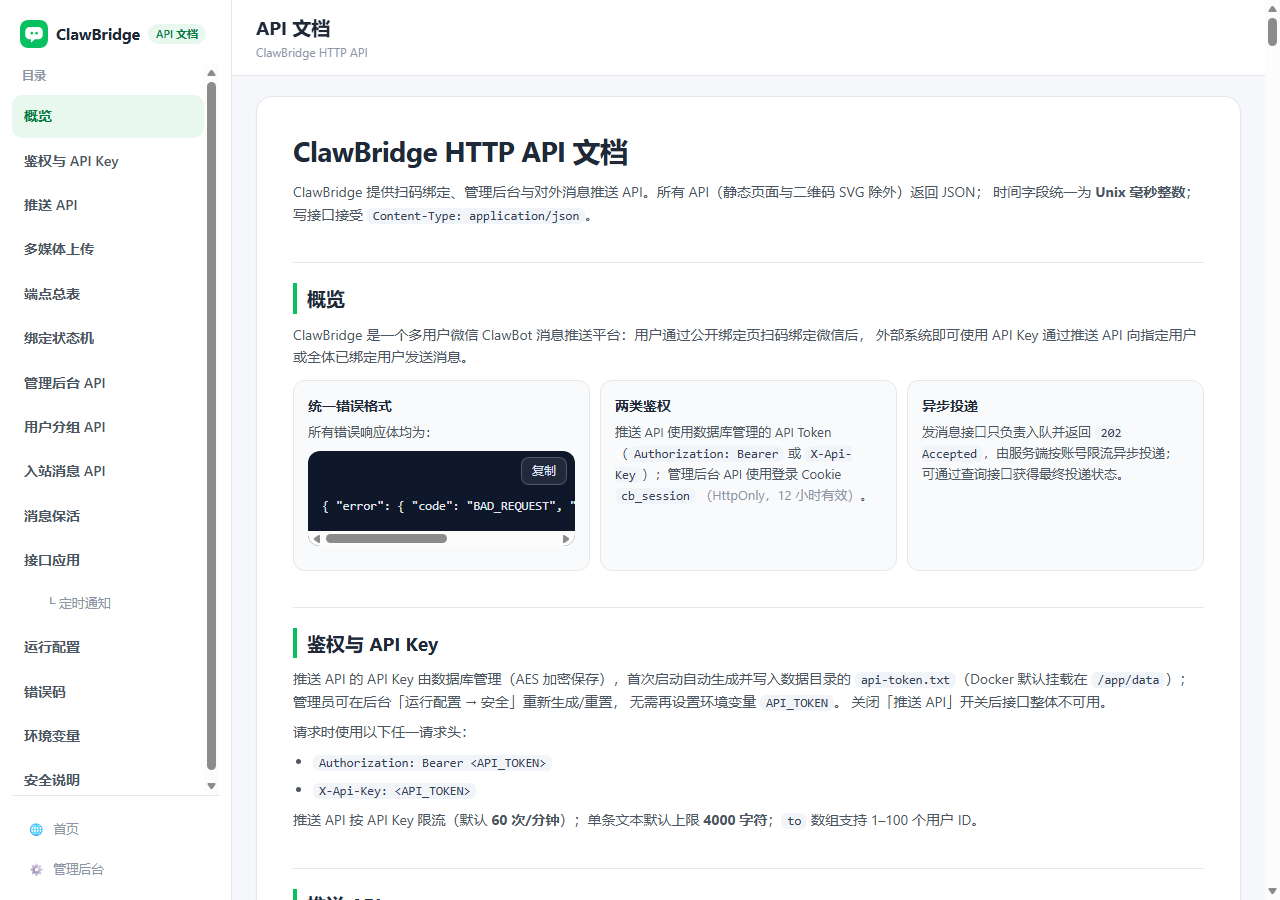
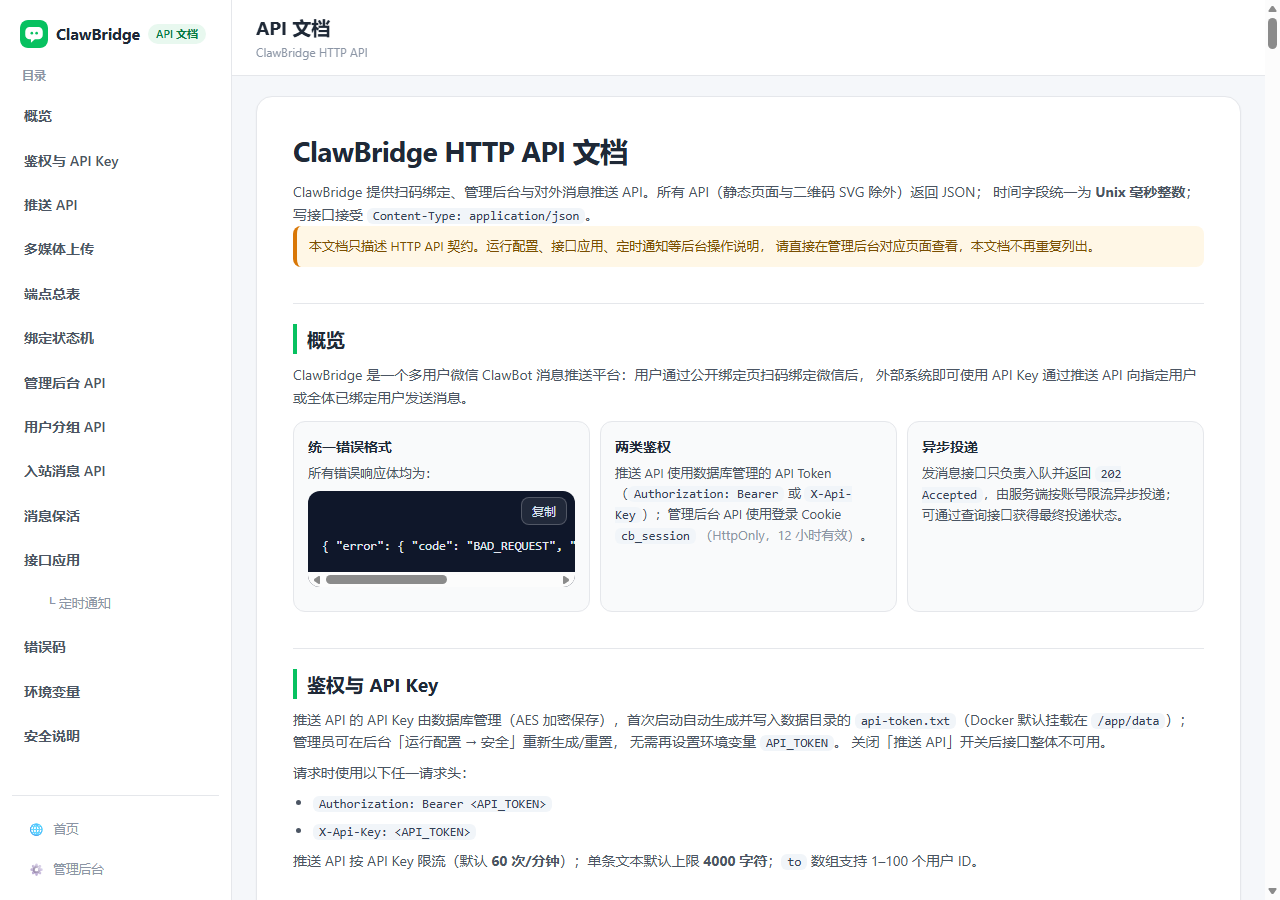
docs: 移除与后台重复的运行配置说明，文档只保留 API 契约
- API 文档页删除整段「运行配置（后台可改设置）」及其目录入口和字段表
- 删除后台已有操作说明的 doc-note（保活、接口应用、定时通知、媒体发送弹窗）
- 正文顶部增加范围说明：后台操作看管理后台，文档不再重复
- docs/API.md 的运行配置章节改为 API 契约摘要并指向 docs/SETTINGS.md
- 更新前端测试：断言文档页不再重复 settings 章节；docs/SETTINGS.md 契约仍覆盖
- 全量 348/348（unit 257 + e2e 91）

diff --git a/web/docs.html b/web/docs.html
@@ -38,7 +38,6 @@
           <a class="doc-nav-link" href="#keepalive">消息保活</a>
           <a class="doc-nav-link" href="#app-rules">接口应用</a>
           <a class="doc-nav-link doc-nav-sub" href="#scheduled-tasks">└ 定时通知</a>
-          <a class="doc-nav-link" href="#settings">运行配置</a>
           <a class="doc-nav-link" href="#error-codes">错误码</a>
           <a class="doc-nav-link" href="#env-vars">环境变量</a>
           <a class="doc-nav-link" href="#security">安全说明</a>
@@ -73,6 +72,11 @@
         <p class="doc-lead">
           ClawBridge 提供扫码绑定、管理后台与对外消息推送 API。所有 API（静态页面与二维码 SVG 除外）返回 JSON；
           时间字段统一为 <strong>Unix 毫秒整数</strong>；写接口接受 <code class="code-inline">Content-Type: application/json</code>。
+        </p>
+
+        <p class="doc-note">
+          本文档只描述 HTTP API 契约。运行配置、接口应用、定时通知等后台操作说明，
+          请直接在管理后台对应页面查看，本文档不再重复列出。
         </p>
 
         <!-- 概览 -->
@@ -327,11 +331,6 @@ curl -X POST http://localhost:10380/api/v1/messages \
             <li>一条带 caption 的媒体消息在服务端会拆成 <strong>最多 2 次</strong> <code class="code-inline">sendmessage</code>（文字 + 媒体），每次都会消耗该账号的发送限流令牌。</li>
             <li>媒体发送失败会按重试策略重新上传；附件文件缺失时该条消息直接标记 <code class="code-inline">failed</code>。</li>
           </ul>
-          <p class="doc-note">
-            管理后台「发消息」弹窗已内置：选择文件 → 客户端大小校验（读取
-            <code class="code-inline">/api/admin/config</code> 的 <code class="code-inline">media.maxBytes</code>）→
-            图片/视频预览 → 上传进度 → 发送；消息记录与用户详情中会展示图片缩略图、视频播放器与文件下载链接。
-          </p>
         </section>
 
         <!-- 端点总表 -->
@@ -1150,12 +1149,6 @@ done</code></pre></div>
               </tbody>
             </table>
           </div>
-          <p class="doc-note">
-            管理后台「用户管理」每行有「保活」开关，用户详情显示最近保活发送时间；「用户分组」每行有
-            「保活」行内开关（一键同步当前成员并持久化分组默认，之后加入该分组的成员自动开启；
-            分组编辑弹窗不再包含该开关）；「运行配置」展示保活全局开关、窗口、提前量、扫描间隔与文本。
-            真实环境上线默认不开启（<code class="code-inline">keepalive_enabled=0</code>），由管理员按需开启。
-          </p>
         </section>
 
         <!-- 接口应用 -->
@@ -1354,12 +1347,6 @@ curl -X POST http://localhost:10380/api/admin/app-rules/rule_xxxxxxxx/test \
 # 运行日志（支持 ruleId/status/userId/limit/offset）
 curl "http://localhost:10380/api/admin/app-rule-logs?ruleId=rule_xxxxxxxx&status=success&limit=20&offset=0" \
   -H "Cookie: cb_session=$ADMIN_COOKIE"</code></pre></div>
-          <p class="doc-note">
-            管理后台「接口应用」区块支持：规则列表（启用开关 / 范围 / 请求 / 最近运行 / 24h 成功·失败·跳过 /
-            编辑·测试·日志·删除）、分组式规则表单（基本信息 / 触发范围 / 触发条件 / 参数提取 / 请求 / 响应 /
-            限制）、测试运行弹窗（展示参数、实际请求、HTTP 状态、耗时、响应预览、将回复文本，且不会发给用户）
-            与规则日志弹窗（状态筛选 + 分页）。定时通知属于接口应用的时间计划模式，见下节。
-          </p>
 
           <!-- 定时通知（属于接口应用的时间计划模式） -->
           <section id="scheduled-tasks" class="doc-subsection">
@@ -1559,175 +1546,7 @@ curl "http://localhost:10380/api/admin/scheduled-task-logs?taskId=task_xxxxxxxx&
               </tbody>
             </table>
           </div>
-          <p class="doc-note">
-            管理后台「接口应用 → 定时通知」Tab 支持任务列表（启用开关/计划/目标/最近执行/下次执行）、
-            分区式任务表单（基本信息/计划/目标/请求/响应/超时）、测试运行（展示实际请求、HTTP/耗时、响应预览、
-            响应头诊断、将发送文本与收件人数，且<strong>不会发送</strong>）、立即执行（确认后真实发送并写日志）、
-            运行日志（任务/状态筛选 + 分页）。建议先用「测试运行」确认接口与文案，再启用或立即执行；
-            注意微信 7 条/5 分钟发送限流。
-          </p>
           </section>
-        </section>
-
-        <!-- 运行配置（后台可改） -->
-        <section id="settings" class="doc-section">
-          <h2 class="doc-heading">运行配置（后台可改设置）</h2>
-          <p>
-            能在后台修改的参数已从 <code class="code-inline">.env</code> 迁移到数据库
-            （schema v8 <code class="code-inline">app_settings</code> 表）：管理员在「运行配置」页修改后保存，
-            DB 持久化，尽量即时生效。第二批迁移后 <code class="code-inline">.env</code> 只保留启动必须项
-            （<code class="code-inline">APP_SECRET</code>、<code class="code-inline">DATA_DIR</code>、
-            <code class="code-inline">MEDIA_DIR</code>、<code class="code-inline">PORT</code>、
-            <code class="code-inline">HOST</code>、<code class="code-inline">NODE_ENV</code>）与机密回退值；
-            只有启动期固定或无法安全热更新的少量字段会提示「需重启」。
-          </p>
-          <p>
-            页面顶部提供 <strong>「🔄 重启容器」</strong> 按钮：确认后调用
-            <code class="code-inline">POST /api/admin/system/restart</code>（202），后台优雅退出后由 Docker
-            <code class="code-inline">restart: unless-stopped</code> 自动拉起（通常 5-15 秒不可用）；
-            前端轮询 <code class="code-inline">/health</code>，恢复后自动刷新页面。
-            仅生产容器环境可用；测试/非容器环境返回 <strong>409</strong>，需手动重启服务。
-          </p>
-
-          <h3 class="doc-subheading">1. 可后台修改的分组与字段</h3>
-          <div class="table-wrap">
-            <table class="doc-table">
-              <thead>
-                <tr>
-                  <th scope="col">分组</th>
-                  <th scope="col">字段</th>
-                </tr>
-              </thead>
-              <tbody>
-                <tr><td>推送 / 限流（push）</td><td><code class="code-inline">rateLimitMax</code>、<code class="code-inline">rateLimitWindowMs</code>、<code class="code-inline">maxAttempts</code>、<code class="code-inline">retryDelaysMs</code>、<code class="code-inline">apiRateLimitPerMinute</code>、<code class="code-inline">maxTextLength</code>、<code class="code-inline">tickMs</code></td></tr>
-                <tr><td>会话保活（keepalive）</td><td><code class="code-inline">enabled</code>、<code class="code-inline">windowMs</code>、<code class="code-inline">leadMs</code>、<code class="code-inline">tickMs</code>、<code class="code-inline">text</code>、<code class="code-inline">maxPerTick</code></td></tr>
-                <tr><td>接口应用（appRules）</td><td><code class="code-inline">enabled</code>、<code class="code-inline">timeoutMs</code>、<code class="code-inline">maxResponseBytes</code>、<code class="code-inline">workerConcurrency</code>、<code class="code-inline">allowedHosts</code>、<code class="code-inline">maxQueue</code></td></tr>
-                <tr><td>定时通知（scheduler）</td><td><code class="code-inline">enabled</code>、<code class="code-inline">tickMs</code>、<code class="code-inline">timezone</code>、<code class="code-inline">maxRecipients</code>、<code class="code-inline">timeoutMs</code></td></tr>
-                <tr><td>媒体（media）</td><td><code class="code-inline">maxBytes</code>、<code class="code-inline">inboundMaxBytes</code>、<code class="code-inline">downloadTimeoutMs</code>、<code class="code-inline">uploadTimeoutMs</code>、<code class="code-inline">allowedImageMime</code>、<code class="code-inline">allowedVideoMime</code></td></tr>
-                <tr><td>绑定（binding）</td><td><code class="code-inline">ttlMs</code>、<code class="code-inline">maxRefreshes</code>、<code class="code-inline">maxActive</code>、<code class="code-inline">ipLimitPerHour</code>、<code class="code-inline">verifyTimeoutMs</code>、<code class="code-inline">networkErrorLimit</code>、<code class="code-inline">pollGapMs</code></td></tr>
-                <tr><td>服务端（server）</td><td><code class="code-inline">publicBaseUrl</code>、<code class="code-inline">trustProxy</code>、<code class="code-inline">cookieSecure</code>、<code class="code-inline">logLevel</code>（enum：debug/info/warn/error/silent）</td></tr>
-                <tr><td>会话与安全（security）</td><td><code class="code-inline">sessionTtlMs</code>、<code class="code-inline">pushApiEnabled</code></td></tr>
-                <tr><td>微信接口（ilink）</td><td><code class="code-inline">loginBaseUrl</code>、<code class="code-inline">defaultBaseUrl</code>、<code class="code-inline">cdnBaseUrl</code>、<code class="code-inline">appId</code>、<code class="code-inline">channelVersion</code>、<code class="code-inline">botAgent</code>、<code class="code-inline">botType</code>、<code class="code-inline">routeTag</code>、<code class="code-inline">clientVersion</code>、<code class="code-inline">requestTimeoutMs</code>、<code class="code-inline">qrPollTimeoutMs</code>、<code class="code-inline">longPollTimeoutMs</code></td></tr>
-                <tr><td>入站监控（monitor）</td><td><code class="code-inline">longPollTimeoutMs</code>、<code class="code-inline">maxAccounts</code></td></tr>
-                <tr><td>管理密码 / API Token</td><td>「安全」卡片：管理密码修改/恢复、API Token 重新生成/恢复、推送 API 开关；密码哈希与 Token 明文永不在页面回显</td></tr>
-              </tbody>
-            </table>
-          </div>
-          <p>
-            <code class="code-inline">allowedHosts</code> 支持数组或逗号/换行分隔字符串，
-            空数组表示清空白名单（恢复默认拒绝私网/本机）；<code class="code-inline">retryDelaysMs</code> 为逗号分隔的毫秒值。
-            字段会显示默认值（.env）、min/max 范围、「已修改」标记与「需重启」标记。
-          </p>
-
-          <h3 class="doc-subheading">2. 管理端接口（Cookie + CSRF）</h3>
-          <div class="endpoint-line">
-            <span class="method method-get">GET</span>
-            <code class="endpoint-path">/api/admin/settings</code>
-          </div>
-          <div class="endpoint-line">
-            <span class="method method-patch">PATCH</span>
-            <code class="endpoint-path">/api/admin/settings</code>
-          </div>
-          <div class="endpoint-line">
-            <span class="method method-post">POST</span>
-            <code class="endpoint-path">/api/admin/settings/reset</code>
-          </div>
-          <p>
-            <code class="code-inline">GET</code> 返回
-            <code class="code-inline">{ groups:[{key,label,fields:[{key,label,type,value,default,min,max,restartRequired,description}]}], envOnly:[...] }</code>；
-            <code class="code-inline">PATCH</code> 只提交修改过的字段（按分组嵌套），返回
-            <code class="code-inline">{ ok:true, groups:[...], restartRequired:[...] }</code>；
-            <code class="code-inline">reset</code> 恢复某分组为环境变量默认值。
-            校验失败 400（未知分组/字段、类型/范围/时区错误）；未登录 401、缺 CSRF 403。
-          </p>
-          <div class="code-block"><pre><code># 修改接口应用内网白名单 + 保活文本
-curl -X PATCH http://localhost:10380/api/admin/settings \
-  -H "Cookie: cb_session=$ADMIN_COOKIE" \
-  -H "X-Requested-With: ClawBridge-Admin" \
-  -H "Content-Type: application/json" \
-  -d '{"appRules":{"allowedHosts":["192.168.88.10"]},
-       "keepalive":{"text":"【保活】回复任意内容继续接收通知"}}'
-
-# 恢复「接口应用」分组默认值
-curl -X POST http://localhost:10380/api/admin/settings/reset \
-  -H "Cookie: cb_session=$ADMIN_COOKIE" \
-  -H "X-Requested-With: ClawBridge-Admin" \
-  -H "Content-Type: application/json" \
-  -d '{"group":"appRules"}'</code></pre></div>
-
-          <h3 class="doc-subheading">3. 安全卡片（管理密码 / API Token）</h3>
-          <p>
-            <code class="code-inline">GET /api/admin/settings</code> 额外返回
-            <code class="code-inline">security</code>：
-            <code class="code-inline">{ adminPasswordSource:'db', apiTokenSource:'db',
-            apiTokenPreview, pushApiEnabled, sessionTtlMs }</code>。
-            管理密码与 API Token <strong>仅保存在数据库</strong>（密码 scrypt 哈希 / Token AES 加密），
-            首次启动自动生成并写入 <code class="code-inline">data/admin-password.txt</code>、
-            <code class="code-inline">data/api-token.txt</code>；<strong>不再读取/回退
-            .env 的 ADMIN_PASSWORD、API_TOKEN</strong>。
-            <strong>永不返回密码哈希或 Token 明文</strong>；`security.pushApiEnabled` 通过 PATCH settings 修改（即时生效）。
-          </p>
-          <div class="endpoint-line">
-            <span class="method method-post">POST</span>
-            <code class="endpoint-path">/api/admin/security/password</code>
-          </div>
-          <div class="endpoint-line">
-            <span class="method method-post">POST</span>
-            <code class="endpoint-path">/api/admin/security/password/reset</code>
-          </div>
-          <div class="endpoint-line">
-            <span class="method method-post">POST</span>
-            <code class="endpoint-path">/api/admin/security/api-token/rotate</code>
-          </div>
-          <div class="endpoint-line">
-            <span class="method method-post">POST</span>
-            <code class="endpoint-path">/api/admin/security/api-token/reset</code>
-          </div>
-          <div class="code-block"><pre><code># 修改管理密码（newPassword 8..128）
-curl -X POST http://localhost:10380/api/admin/security/password \
-  -H "Cookie: cb_session=$ADMIN_COOKIE" \
-  -H "X-Requested-With: ClawBridge-Admin" \
-  -H "Content-Type: application/json" \
-  -d '{"currentPassword":"old-pass","newPassword":"new-pass-123"}'
-
-# 重置为随机密码（需当前密码；明文仅在本次响应返回并写入 data/admin-password.txt）
-curl -X POST http://localhost:10380/api/admin/security/password/reset \
-  -H "Cookie: cb_session=$ADMIN_COOKIE" \
-  -H "X-Requested-With: ClawBridge-Admin" \
-  -H "Content-Type: application/json" -d '{"currentPassword":"new-pass-123"}'
-# → { "ok":true, "password":"…随机明文，仅本次…", "source":"db" }
-
-# 重新生成 API Token（明文仅返回一次 + preview，旧 Token 立即失效）
-curl -X POST http://localhost:10380/api/admin/security/api-token/rotate \
-  -H "Cookie: cb_session=$ADMIN_COOKIE" -H "X-Requested-With: ClawBridge-Admin"
-
-# 重置 Token（生成新 Token，明文仅本次返回并写入 data/api-token.txt）
-curl -X POST http://localhost:10380/api/admin/security/api-token/reset \
-  -H "Cookie: cb_session=$ADMIN_COOKIE" -H "X-Requested-With: ClawBridge-Admin"</code></pre></div>
-          <p>
-            后台「安全」卡片：管理密码（当前/新/确认 + 修改、重置为随机密码）、API Token（预览 + 来源「数据库」、
-            重新生成/重置后弹窗一次性显示新值并支持复制）、推送 API 开关。
-            密码/Token 只存数据库（scrypt/AES），首次启动自动生成并写入 data/ 文件；
-            修改密码不会强制下线已登录会话（会话到期后需使用新密码登录）；新密码/新 Token 明文只显示一次。
-          </p>
-
-          <h3 class="doc-subheading">4. 只读环境变量（envOnly）</h3>
-          <p>
-            仍必须由 <code class="code-inline">.env</code> 管理的最终名单（后台只读展示、脱敏/路径，不能修改）：
-            <code class="code-inline">APP_SECRET</code>（加密主密钥）、<code class="code-inline">DATA_DIR</code>、
-            <code class="code-inline">MEDIA_DIR</code>、<code class="code-inline">PORT</code>、
-            <code class="code-inline">HOST</code>、<code class="code-inline">NODE_ENV</code>。
-            其余参数均在后台「运行配置」可改并持久化到数据库；
-            <code class="code-inline">ADMIN_PASSWORD</code> / <code class="code-inline">API_TOKEN</code>
-            已迁移到数据库管理（首次启动自动生成并写入 data/ 文件），
-            <strong>不再读取这两个环境变量</strong>。
-          </p>
-          <p class="doc-note">
-            后台「运行配置」页按分组展示可编辑表单：number 输入、boolean 开关、text/textarea 文本、
-            <code class="code-inline">allowedHosts</code> 文本域（逗号/换行分隔）；「保存修改」只提交变化字段，
-            成功 toast 会包含需重启提示；每组「恢复默认」可清除该分组的后台覆盖。
-            未修改的字段使用环境变量默认值；DB 覆盖优先于 <code class="code-inline">.env</code>。
-          </p>
         </section>
 
         <!-- 错误码 -->

diff --git a/tests/unit/frontend-pages.test.js b/tests/unit/frontend-pages.test.js
@@ -1086,12 +1086,14 @@ test('运行配置：第二批分组与安全卡片（改密/API Token）', asyn
   assert.ok(html.includes('data/admin-password.txt') && html.includes('data/api-token.txt'), '应说明新密码/Token 写入 data/ 文件');
 });
 
-test('运行配置：文档页与 docs/SETTINGS.md 一致', async () => {
+test('运行配置：后台说明不在文档页重复，契约保留在 docs/SETTINGS.md', async () => {
   const [contract, html] = await Promise.all([
     fs.readFile(path.join(ROOT, 'docs', 'SETTINGS.md'), 'utf8'),
     readPage('docs.html'),
   ]);
-  assert.match(html, /<section id="settings"/, 'docs.html 应有 #settings 章节');
+  assert.ok(!html.includes('<section id="settings"'), '文档页不应再重复运行配置章节');
+  assert.ok(!html.includes('href="#settings"'), '文档页目录不应再列出运行配置');
+  assert.match(html, /本文档只描述 HTTP API 契约/, '文档页应说明只描述 API 契约');
   for (const token of [
     '/api/admin/settings',
     '/api/admin/settings/reset',
@@ -1101,71 +1103,18 @@ test('运行配置：文档页与 docs/SETTINGS.md 一致', async () => {
     'allowedHosts',
     'APP_SECRET',
     'rateLimitMax',
-    'rateLimitWindowMs',
-    'maxAttempts',
     'retryDelaysMs',
-    'apiRateLimitPerMinute',
     'maxTextLength',
-    'windowMs',
-    'leadMs',
-    'tickMs',
-    'maxPerTick',
-    'maxResponseBytes',
-    'workerConcurrency',
-    'maxQueue',
-    'timezone',
-    'maxRecipients',
-    'maxBytes',
-    'inboundMaxBytes',
-    'ttlMs',
-    'maxRefreshes',
-    'maxActive',
-    'ipLimitPerHour',
-    'verifyTimeoutMs',
-    '/api/admin/security/password',
-    '/api/admin/security/password/reset',
-    '/api/admin/security/api-token/rotate',
-    '/api/admin/security/api-token/reset',
     'publicBaseUrl',
-    'trustProxy',
-    'cookieSecure',
-    'logLevel',
-    'sessionTtlMs',
-    'pushApiEnabled',
-    'loginBaseUrl',
-    'defaultBaseUrl',
-    'cdnBaseUrl',
-    'appId',
-    'channelVersion',
-    'botAgent',
-    'botType',
-    'routeTag',
-    'clientVersion',
-    'requestTimeoutMs',
-    'qrPollTimeoutMs',
-    'longPollTimeoutMs',
-    'maxAccounts',
-    'downloadTimeoutMs',
-    'uploadTimeoutMs',
-    'allowedImageMime',
-    'allowedVideoMime',
-    'networkErrorLimit',
-    'pollGapMs',
     'adminPasswordSource',
-    'apiTokenSource',
-    'apiTokenPreview',
-    '随机密码',
-    'admin-password.txt',
-    'api-token.txt',
-    'scrypt',
-    'AES',
     'MEDIA_DIR',
     'NODE_ENV',
+    'scrypt',
+    'AES',
   ]) {
     assert.ok(contract.includes(token), `docs/SETTINGS.md 应描述：${token}`);
-    assert.ok(html.includes(token), `docs.html 运行配置章节缺少：${token}`);
   }
-  assert.ok(/curl -X PATCH[^\n]*api\/admin\/settings/.test(html), 'docs.html 应包含保存运行配置 curl 示例');
+  assert.ok(!/curl -X PATCH[^\n]*api\/admin\/settings/.test(html), '文档页不再重复运行配置 curl 示例');
 });
 
 test('文档页接口应用章节与 docs/API_RULES.md 一致', async () => {

diff --git a/docs/API.md b/docs/API.md
@@ -711,35 +711,14 @@ curl -X POST http://localhost:10380/api/admin/scheduled-tasks/task_xxxxxxxx/run 
 
 ## 10. 运行配置（后台可改设置）
 
-完整契约见 [`docs/SETTINGS.md`](SETTINGS.md)。可用参数从 `.env`（首次默认值）迁移到数据库
-（schema v8 `app_settings`），管理员在后台「运行配置」修改，DB 持久化，尽量即时生效。
-
-**可后台修改**：推送/限流（rateLimitMax/window/maxAttempts/retryDelaysMs/apiRateLimitPerMinute/maxTextLength）、
-会话保活（enabled/windowMs/leadMs/tickMs/text/maxPerTick）、接口应用（enabled/timeoutMs/maxResponseBytes/
-workerConcurrency/allowedHosts/maxQueue）、定时通知（enabled/tickMs/timezone/maxRecipients/timeoutMs）、
-媒体（maxBytes/inboundMaxBytes）、绑定（ttlMs/maxRefreshes/maxActive/ipLimitPerHour/verifyTimeoutMs）。
-
-**仍只由 .env 管理（启动必须）**：`APP_SECRET`、`DATA_DIR`、`MEDIA_DIR`、`PORT`、`HOST`、`NODE_ENV`。
-管理密码/API Token 由 DB 管理（后台「安全」卡片，首启自动生成）；其余运行参数均可在后台修改。
+字段、默认值与后台操作说明以管理后台「运行配置」页及 [`docs/SETTINGS.md`](SETTINGS.md) 为准，
+本文档不再重复列出。API 契约摘要：
 
 ```
 GET   /api/admin/settings            → { groups:[...], envOnly:[...] }
 PATCH /api/admin/settings            Body: {"appRules":{"allowedHosts":["192.168.88.10"]}}
   → 200 { ok:true, groups:[...], restartRequired:[...] }
 POST  /api/admin/settings/reset      Body: {"group":"appRules"} → 200 { ok:true, groups:[...] }
-```
-
-```bash
-# 在后台允许访问内网接口（替代 .env 的 APP_RULES_ALLOWED_HOSTS）
-curl -X PATCH http://localhost:10380/api/admin/settings \
-  -H "Cookie: cb_session=$ADMIN_COOKIE" -H "X-Requested-With: ClawBridge-Admin" \
-  -H "Content-Type: application/json" \
-  -d '{"appRules":{"allowedHosts":["192.168.88.10"]}}'
-
-# 恢复接口应用组的默认值（清空白名单，重新拒绝私网）
-curl -X POST http://localhost:10380/api/admin/settings/reset \
-  -H "Cookie: cb_session=$ADMIN_COOKIE" -H "X-Requested-With: ClawBridge-Admin" \
-  -H "Content-Type: application/json" -d '{"group":"appRules"}'
 ```
 
 ## 11. 系统重启（重启容器）
